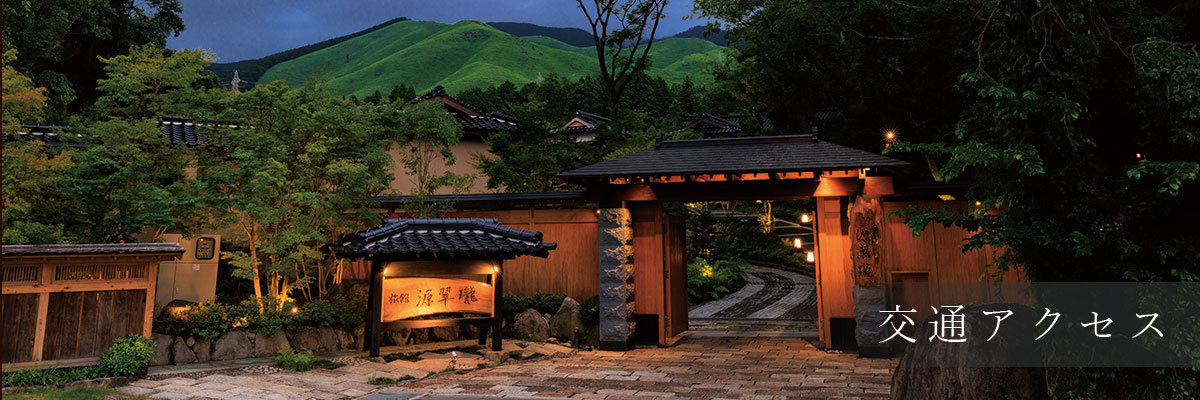
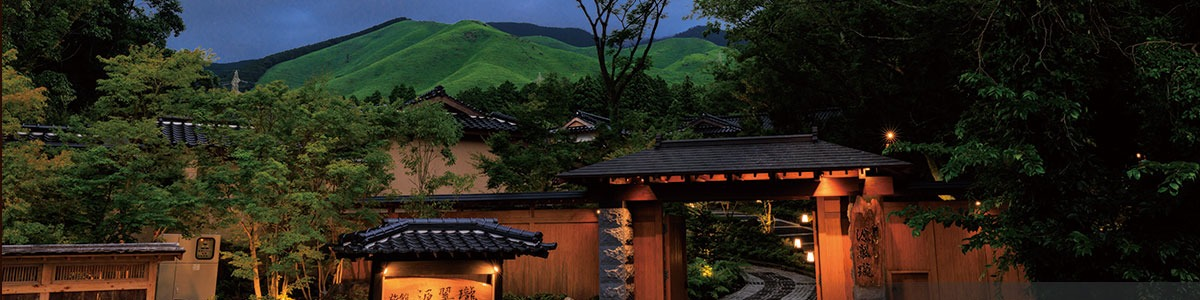
fix(assets): page-hero 画像に焼き込まれたタイトルを除去
rooms/onsen/access/cuisine/facilities の *_main.jpg 下部右に
日本語のページタイトルが画像として焼き込まれており、ライブテキストと
二重表示になっていた。焼き込みは日本語のみのため EN/ZH の訪問者には
読めない文字が出る状態だった。

- 5 枚を下 25% クロップ (1200x400 -> 1200x300)。全タイトルがこの領域内。
  暗帯検出では cuisine の「料理」(明るい木目上の白文字) を拾えなかったため、
  ヒューリスティックではなく一律クロップを採用
- .page-hero を aspect-ratio: 4/1 に変更。新しい画像比と一致させ
  デスクトップでの拡大ぼけを回避。min-height 18rem で携帯の見え方を確保
- 5 枚とも構図は保持 (rooms の灯籠 / cuisine の膳 / onsen の浴槽)
- ファイルサイズも減 (702KB -> 562KB)

検証: 8 ページ x 5 幅 全ゲート PASS / コントラスト PASS /
      インデックス開閉・言語切替 PASS / 5 枚を目視確認

diff --git a/assets/site.css b/assets/site.css
@@ -437,8 +437,12 @@ html[lang="zh"] .hero-block .cap .title { font-family: var(--font-zh); }
 /* Sub-page hero — same fold, still photograph */
 .page-hero {
   position: relative;
-  height: 52svh;
-  min-height: 22rem;
+  /* Source mains are 1200×300 (4:1) after the baked-title crop. Matching the
+     ratio means no upscaling on desktop; min-height keeps the fold on phones,
+     where object-fit crops the sides instead. */
+  aspect-ratio: 4 / 1;
+  min-height: 18rem;
+  max-height: 60svh;
   overflow: hidden;
   display: flex;
   align-items: flex-end;
